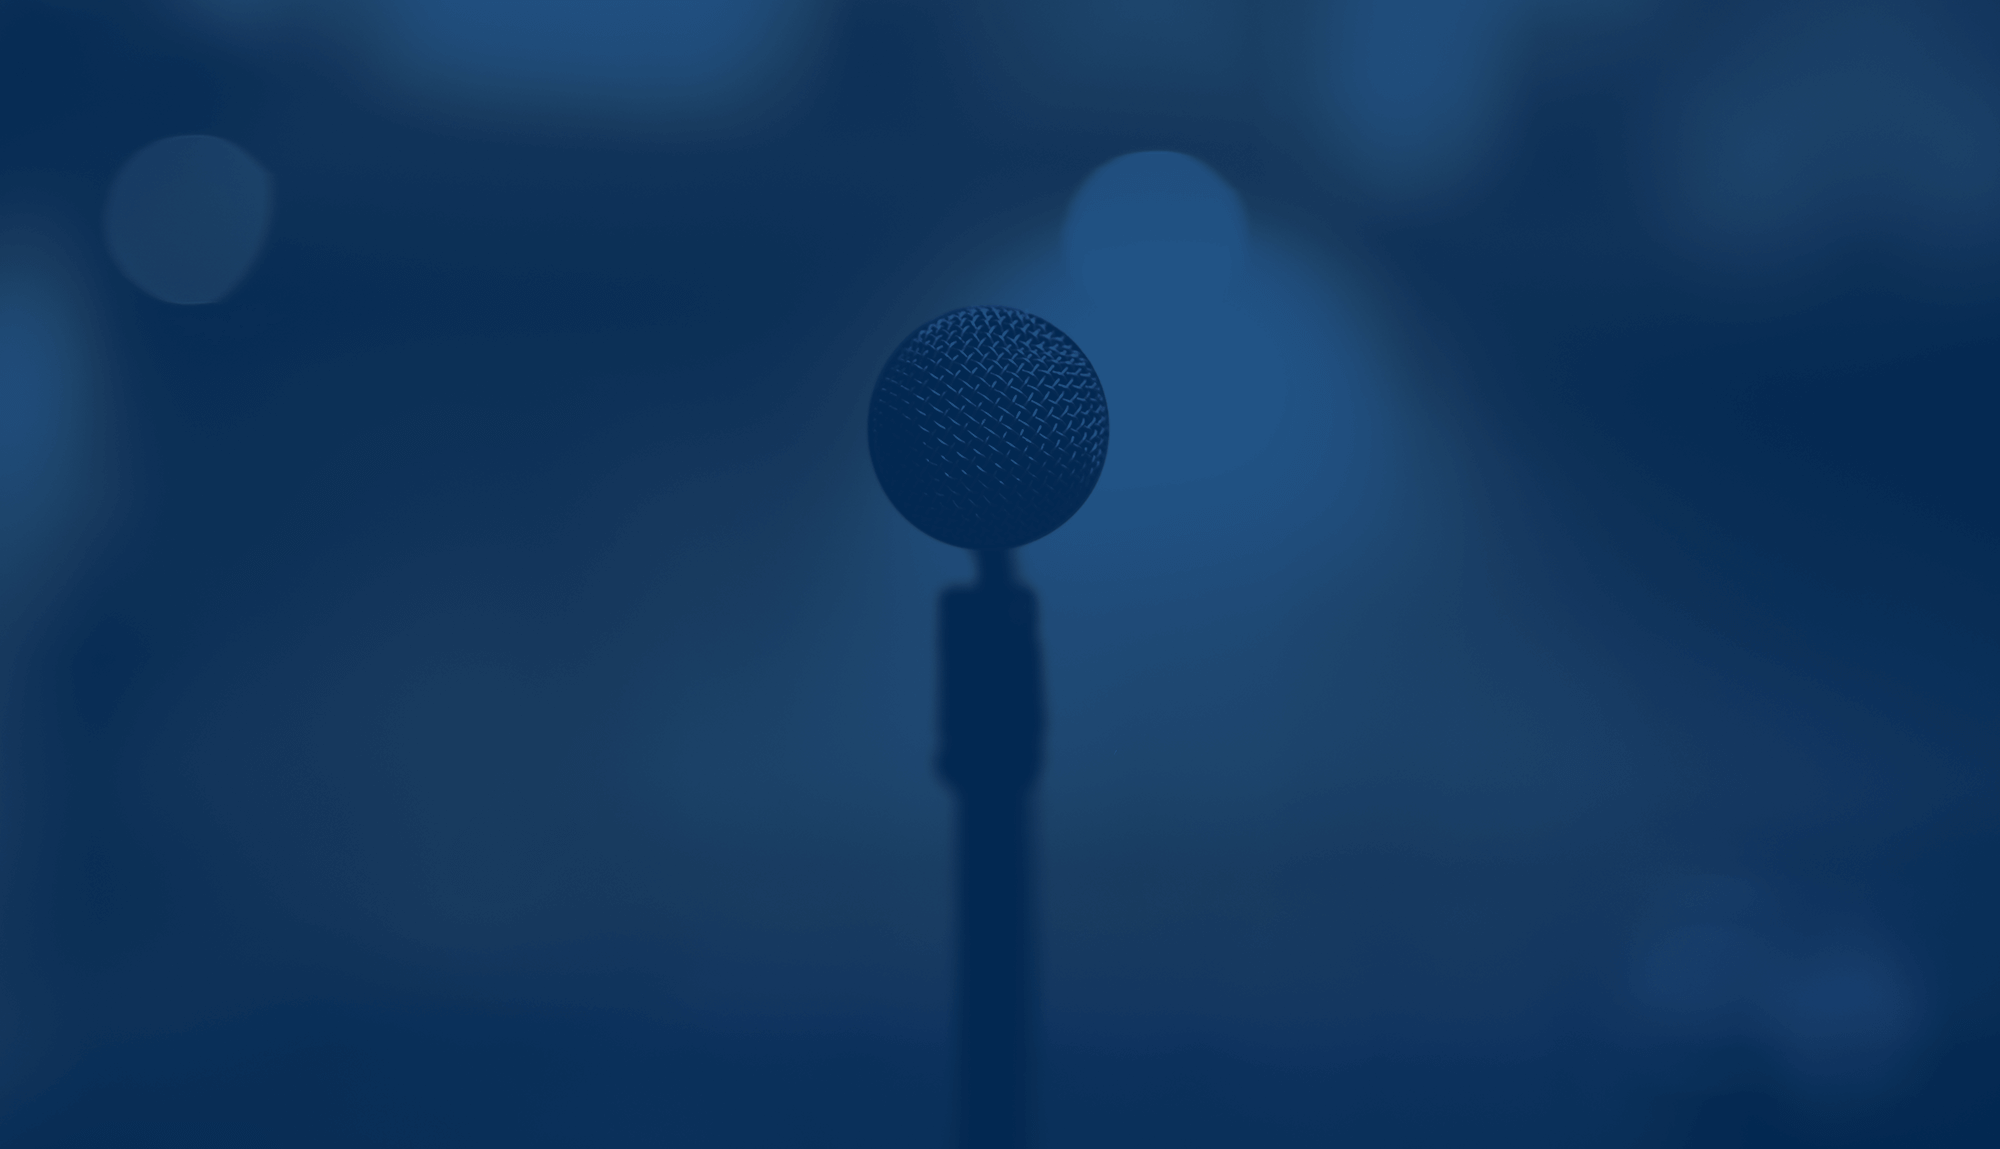
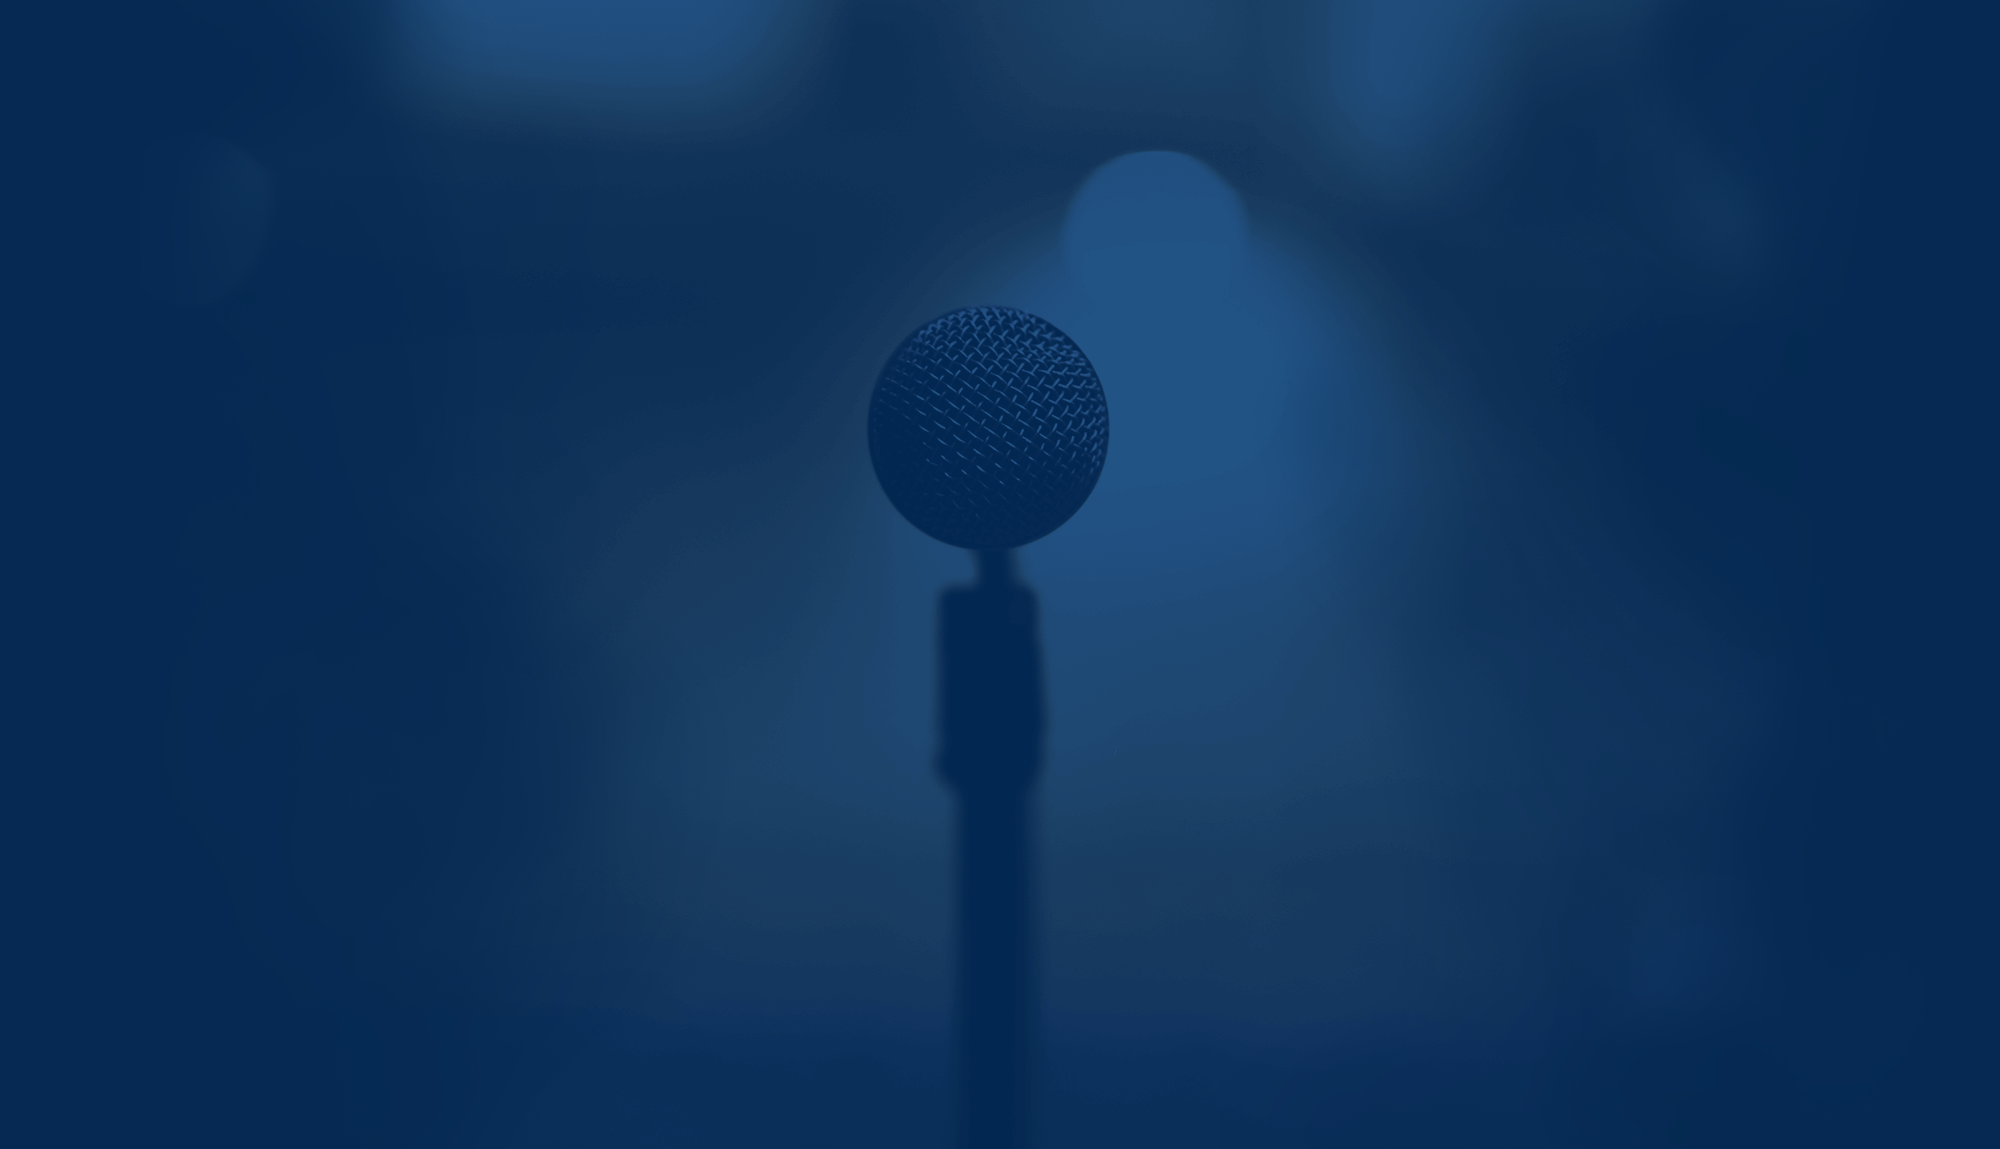
fixed header img

Changed region(s): [[0.0, 0.2437, 0.062, 0.4874], [0.899, 0.8529, 0.961, 0.8834]]

diff --git a/css/custom.css b/css/custom.css
@@ -198,7 +198,7 @@ hr {
 }
 
 .home-bg{
-    background: #045896 url("../img/talk-bg.png") top center no-repeat fixed;
+    background: #052952 url("../img/talk-bg.png") top center no-repeat fixed;
     max-height:1149px;
 }
 
